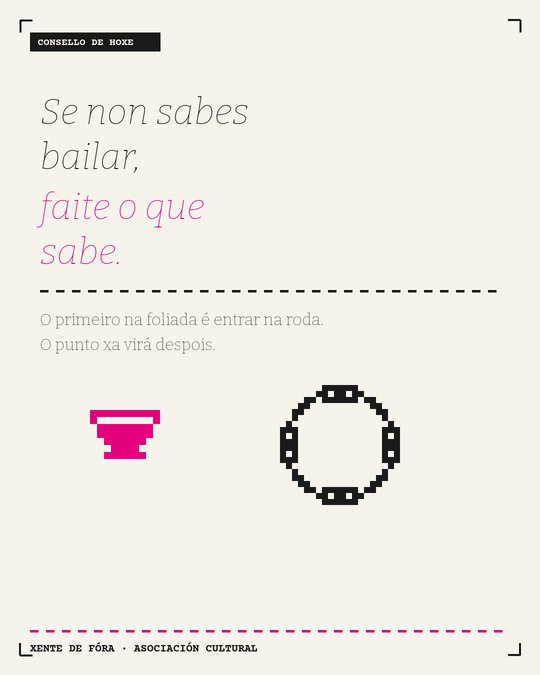
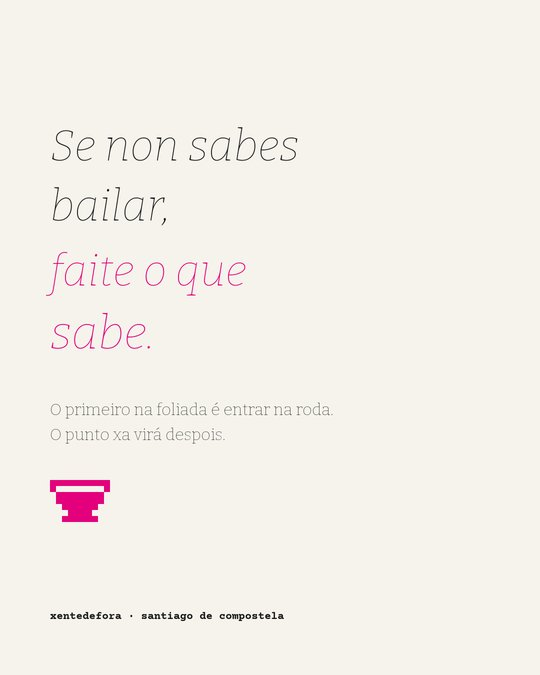
Feed limpo sen ruído: fotos 100% limpas, coplas con aire e ovo no post 15

diff --git a/manual/index.html b/manual/index.html
@@ -542,7 +542,7 @@ pre{font:14px/20px var(--mono);margin:24px 0;padding:16px;border:1px solid var(-
 <image x="0" y="0" width="72" height="56" preserveAspectRatio="xMidYMid slice" clip-path="url(#cp26)" href="../img/foto_melide_72x56_duotono_magenta.jpg"/>
 <path fill="#E4007C" fill-rule="evenodd" d="M 7 60 L 10 60 L 10 61 L 11 61 L 11 64 L 10 64 L 10 65 L 7 65 L 7 64 L 10 64 L 10 61 L 7 61 L 7 64 L 6 64 L 6 61 L 7 61 Z M 12 60 L 16 60 L 16 61 L 17 61 L 17 62 L 16 62 L 16 63 L 17 63 L 17 64 L 16 64 L 16 65 L 12 65 Z M 13 61 L 13 62 L 16 62 L 16 61 Z M 18 60 L 22 60 L 22 61 L 23 61 L 23 62 L 22 62 L 22 64 L 23 64 L 23 65 L 22 65 L 22 64 L 21 64 L 21 63 L 19 63 L 19 65 L 18 65 Z M 19 61 L 19 62 L 22 62 L 22 61 Z M 25 60 L 28 60 L 28 61 L 29 61 L 29 65 L 28 65 L 28 63 L 25 63 L 25 65 L 24 65 L 24 61 L 25 61 L 25 62 L 28 62 L 28 61 L 25 61 Z M 30 60 L 34 60 L 34 61 L 35 61 L 35 64 L 34 64 L 34 65 L 30 65 Z M 31 61 L 31 64 L 34 64 L 34 61 Z M 37 60 L 40 60 L 40 61 L 41 61 L 41 64 L 40 64 L 40 65 L 37 65 L 37 64 L 40 64 L 40 61 L 37 61 L 37 64 L 36 64 L 36 61 L 37 61 Z M 42 60 L 47 60 L 47 61 L 45 61 L 45 64 L 47 64 L 47 65 L 42 65 L 42 64 L 44 64 L 44 61 L 42 61 Z M 48 60 L 52 60 L 52 61 L 53 61 L 53 62 L 52 62 L 52 64 L 53 64 L 53 65 L 52 65 L 52 64 L 51 64 L 51 63 L 49 63 L 49 65 L 48 65 Z M 49 61 L 49 62 L 52 62 L 52 61 Z M 55 60 L 58 60 L 58 61 L 59 61 L 59 64 L 58 64 L 58 65 L 55 65 L 55 64 L 58 64 L 58 61 L 55 61 L 55 64 L 54 64 L 54 61 L 55 61 Z M 13 63 L 13 64 L 16 64 L 16 63 Z M 6 67 L 10 67 L 10 68 L 11 68 L 11 71 L 10 71 L 10 72 L 6 72 Z M 7 68 L 7 71 L 10 71 L 10 68 Z M 12 67 L 17 67 L 17 68 L 13 68 L 13 69 L 16 69 L 16 70 L 13 70 L 13 71 L 17 71 L 17 72 L 12 72 Z M 6 74 L 10 74 L 10 75 L 11 75 L 11 76 L 10 76 L 10 77 L 7 77 L 7 79 L 6 79 Z M 7 75 L 7 76 L 10 76 L 10 75 Z M 13 74 L 16 74 L 16 75 L 17 75 L 17 79 L 16 79 L 16 77 L 13 77 L 13 79 L 12 79 L 12 75 L 13 75 L 13 76 L 16 76 L 16 75 L 13 75 Z M 18 74 L 19 74 L 19 75 L 20 75 L 20 76 L 21 76 L 21 77 L 22 77 L 22 74 L 23 74 L 23 79 L 22 79 L 22 78 L 21 78 L 21 77 L 20 77 L 20 76 L 19 76 L 19 79 L 18 79 Z M 24 74 L 28 74 L 28 75 L 29 75 L 29 78 L 28 78 L 28 79 L 24 79 Z M 25 75 L 25 78 L 28 78 L 28 75 Z M 30 74 L 35 74 L 35 75 L 31 75 L 31 76 L 34 76 L 34 77 L 31 77 L 31 78 L 35 78 L 35 79 L 30 79 Z M 36 74 L 41 74 L 41 75 L 39 75 L 39 78 L 41 78 L 41 79 L 36 79 L 36 78 L 38 78 L 38 75 L 36 75 Z M 42 74 L 46 74 L 46 75 L 47 75 L 47 76 L 46 76 L 46 78 L 47 78 L 47 79 L 46 79 L 46 78 L 45 78 L 45 77 L 43 77 L 43 79 L 42 79 Z M 43 75 L 43 76 L 46 76 L 46 75 Z M 48 74 L 53 74 L 53 75 L 49 75 L 49 76 L 52 76 L 52 77 L 49 77 L 49 78 L 53 78 L 53 79 L 48 79 Z M 54 74 L 59 74 L 59 75 L 57 75 L 57 79 L 56 79 L 56 75 L 54 75 Z M 61 74 L 64 74 L 64 75 L 65 75 L 65 79 L 64 79 L 64 77 L 61 77 L 61 79 L 60 79 L 60 75 L 61 75 L 61 76 L 64 76 L 64 75 L 61 75 Z"/>
 <text x="6" y="85.5" font-size="2.4" fill="#1A1A1A" class="mono" text-anchor="start">SÁBADO 8 DE NOVEMBRO · 11:00 H · GRATUÍTO</text>
-</svg></div><figcaption><span class="num">Fig. 11.7</span>Post vertical 72 × 90 coa foto en duotono magenta: 56 filas de foto, bordo bordado e a banda co titular en tres liñas.</figcaption></figure></div><p>Para stories verticais de Instagram e Reels (1080 × 1920 px, 9:16) con recortes de píxel, a peza organízase en catro zonas: esquinas de grella perimetral (44 px de marxe), etiqueta superior en Courier Prime sobre caixa sólida, titular en Puntos (Ferreña), o personaxe ou elemento recortado a píxel centrado (de 800 a 1050 px de alto), e unha placa sólida inferior con data, hora, lugar e sinatura corporativa. O script <code>_recorte_pixel.py</code> automatiza a exportación deste modelo.</p><figure><div class="peza"><div class="fila ancha n3 n3"><figure><div class="peza"><div style="max-width:240px;margin:0 auto"><img src="../img/story_as_marias.gif" alt="Story 9:16 As Marías" class="mock" loading="lazy" decoding="async"></div></div><figcaption>Story en magenta · As Marías</figcaption></figure><figure><div class="peza"><div style="max-width:240px;margin:0 auto"><img src="../img/story_galo.gif" alt="Story 9:16 O Galo de Mos" class="mock" loading="lazy" decoding="async"></div></div><figcaption>Story en tinta · O Galo de Mos</figcaption></figure><figure><div class="peza"><div style="max-width:240px;margin:0 auto"><img src="../img/story_vaca.gif" alt="Story 9:16 Vaca Cachena" class="mock" loading="lazy" decoding="async"></div></div><figcaption>Story en papel · Vaca Cachena</figcaption></figure></div></div><figcaption><span class="num">Fig. 11.8</span>Stories 9:16 con recorte de píxel: catro zonas estruturadas (marcas de grella nas esquinas, etiqueta superior, titular en Puntos e placa de datos ao pé).</figcaption></figure><h3>Feed equilibrado de Instagram (3×N)</h3><p>Para evitar tanto a monotonía corporativa como o desorde caótico, o feed de Instagram (@xentedefora) organízase mediante a <strong>Tríade da Foliada</strong> nunha grella de 3 columnas con <strong>cadencia diagonal (+1)</strong>: cada fila combina exactamente unha <strong>Foto Real</strong> (33%, calidez e rúa), un <strong>Recorte de Píxel Pop</strong> (33%, punch e silueta 8-bit sobre magenta ou tinta) e unha <strong>Peza Tipográfica en Papel</strong> (33%, respiro visual, datas e coplas). Ao desprazar o comezo un posto en cada fila, xérase unha fervenza diagonal que equilibra as cores e garante que ningunha columna repita dous formatos idénticos seguidos.</p><figure><div class="peza"><div class="feed-ig"><div class="feed-ig-grid"><div class="feed-ig-item"><img src="../img/feed_01.jpg" alt="Post: Proximamente... (Ovo)" class="" loading="lazy" decoding="async"><span class="feed-ig-etiqueta mag">Proximamente... (Ovo)</span></div><div class="feed-ig-item"><img src="../img/feed_02.jpg" alt="Post: Menos Tinder" class="" loading="lazy" decoding="async"><span class="feed-ig-etiqueta pap">Menos Tinder</span></div><div class="feed-ig-item"><img src="../img/feed_03.jpg" alt="Post: Foliada na Alameda" class="" loading="lazy" decoding="async"><span class="feed-ig-etiqueta tin">Foliada na Alameda</span></div><div class="feed-ig-item"><img src="../img/feed_04.jpg" alt="Post: Foliada no Toural" class="" loading="lazy" decoding="async"><span class="feed-ig-etiqueta pap">Foliada no Toural</span></div><div class="feed-ig-item"><img src="../img/feed_05.jpg" alt="Post: O Ritmo das Mans" class="" loading="lazy" decoding="async"><span class="feed-ig-etiqueta tin">O Ritmo das Mans</span></div><div class="feed-ig-item"><img src="../img/feed_06.jpg" alt="Post: As Marías" class="" loading="lazy" decoding="async"><span class="feed-ig-etiqueta mag">As Marías</span></div><div class="feed-ig-item"><img src="../img/feed_07.jpg" alt="Post: Baile na Praza" class="" loading="lazy" decoding="async"><span class="feed-ig-etiqueta tin">Baile na Praza</span></div><div class="feed-ig-item"><img src="../img/feed_08.jpg" alt="Post: Vaca Cachena" class="" loading="lazy" decoding="async"><span class="feed-ig-etiqueta mag">Vaca Cachena</span></div><div class="feed-ig-item"><img src="../img/feed_09.jpg" alt="Post: Se Non Sabes Bailar..." class="" loading="lazy" decoding="async"><span class="feed-ig-etiqueta pap">Se Non Sabes Bailar...</span></div><div class="feed-ig-item"><img src="../img/feed_10.jpg" alt="Post: O Galo de Mos" class="" loading="lazy" decoding="async"><span class="feed-ig-etiqueta mag">O Galo de Mos</span></div><div class="feed-ig-item"><img src="../img/feed_11.jpg" alt="Post: Curso de Baile" class="" loading="lazy" decoding="async"><span class="feed-ig-etiqueta pap">Curso de Baile</span></div><div class="feed-ig-item"><img src="../img/feed_12.jpg" alt="Post: Cantos de Rúa" class="" loading="lazy" decoding="async"><span class="feed-ig-etiqueta tin">Cantos de Rúa</span></div><div class="feed-ig-item"><img src="../img/feed_13.jpg" alt="Post: Copla do Carro" class="" loading="lazy" decoding="async"><span class="feed-ig-etiqueta pap">Copla do Carro</span></div><div class="feed-ig-item"><img src="../img/feed_14.jpg" alt="Post: A Forza do Toque" class="" loading="lazy" decoding="async"><span class="feed-ig-etiqueta tin">A Forza do Toque</span></div><div class="feed-ig-item"><img src="../img/feed_15.jpg" alt="Post: A Galiña Baila" class="" loading="lazy" decoding="async"><span class="feed-ig-etiqueta mag">A Galiña Baila</span></div></div></div><div class="feed-cadencia-guia"><div><strong>📷 33% FOTO REAL</strong><br>Calidez, movemento e rúa</div><div><strong>⚡ 33% RECORTE POP</strong><br>Punch visual e troquelado 8-bit</div><div><strong>📄 33% PAPEL</strong><br>Respiro visual, coplas e datas</div></div><p style="text-align:center;margin-top:16px;font-family:var(--mono);font-size:14px"><a href="../feed.html" target="_blank">Abrir o simulador interactivo completo do Feed 3×5</a></p></div><figcaption><span class="num">Fig. 11.9</span>Grella 3×N para Instagram: cadencia diagonal (+1) coa Tríade da Foliada (33% Foto Real, 33% Recorte de Píxel Pop e 33% Tipografía en Papel). Ningunha columna repite dous formatos idénticos seguidos.</figcaption></figure><figure><div class="peza"><svg class="mock" style="max-width:36rem" viewBox="0 0 160 40" role="img" aria-label="Cabeceira de Google Forms 1600 por 400 para a inscrición do curso" xmlns="http://www.w3.org/2000/svg">
+</svg></div><figcaption><span class="num">Fig. 11.7</span>Post vertical 72 × 90 coa foto en duotono magenta: 56 filas de foto, bordo bordado e a banda co titular en tres liñas.</figcaption></figure></div><p>Para stories verticais de Instagram e Reels (1080 × 1920 px, 9:16) con recortes de píxel, a peza organízase en catro zonas: esquinas de grella perimetral (44 px de marxe), etiqueta superior en Courier Prime sobre caixa sólida, titular en Puntos (Ferreña), o personaxe ou elemento recortado a píxel centrado (de 800 a 1050 px de alto), e unha placa sólida inferior con data, hora, lugar e sinatura corporativa. O script <code>_recorte_pixel.py</code> automatiza a exportación deste modelo.</p><figure><div class="peza"><div class="fila ancha n3 n3"><figure><div class="peza"><div style="max-width:240px;margin:0 auto"><img src="../img/story_as_marias.gif" alt="Story 9:16 As Marías" class="mock" loading="lazy" decoding="async"></div></div><figcaption>Story en magenta · As Marías</figcaption></figure><figure><div class="peza"><div style="max-width:240px;margin:0 auto"><img src="../img/story_galo.gif" alt="Story 9:16 O Galo de Mos" class="mock" loading="lazy" decoding="async"></div></div><figcaption>Story en tinta · O Galo de Mos</figcaption></figure><figure><div class="peza"><div style="max-width:240px;margin:0 auto"><img src="../img/story_vaca.gif" alt="Story 9:16 Vaca Cachena" class="mock" loading="lazy" decoding="async"></div></div><figcaption>Story en papel · Vaca Cachena</figcaption></figure></div></div><figcaption><span class="num">Fig. 11.8</span>Stories 9:16 con recorte de píxel: catro zonas estruturadas (marcas de grella nas esquinas, etiqueta superior, titular en Puntos e placa de datos ao pé).</figcaption></figure><h3>Feed equilibrado de Instagram (3×N)</h3><p>Para evitar tanto a monotonía corporativa como o desorde caótico, o feed de Instagram (@xentedefora) organízase mediante a <strong>Tríade da Foliada</strong> nunha grella de 3 columnas con <strong>cadencia diagonal (+1)</strong>: cada fila combina exactamente unha <strong>Foto Real</strong> (33%, calidez e rúa), un <strong>Recorte de Píxel Pop</strong> (33%, punch e silueta 8-bit sobre magenta ou tinta) e unha <strong>Peza Tipográfica en Papel</strong> (33%, respiro visual, datas e coplas). Ao desprazar o comezo un posto en cada fila, xérase unha fervenza diagonal que equilibra as cores e garante que ningunha columna repita dous formatos idénticos seguidos.</p><figure><div class="peza"><div class="feed-ig"><div class="feed-ig-grid"><div class="feed-ig-item"><img src="../img/feed_01.jpg" alt="Post: Menos Tinder" class="" loading="lazy" decoding="async"><span class="feed-ig-etiqueta pap">Menos Tinder</span></div><div class="feed-ig-item"><img src="../img/feed_02.jpg" alt="Post: A Galiña Baila" class="" loading="lazy" decoding="async"><span class="feed-ig-etiqueta mag">A Galiña Baila</span></div><div class="feed-ig-item"><img src="../img/feed_03.jpg" alt="Post: Foliada na Alameda" class="" loading="lazy" decoding="async"><span class="feed-ig-etiqueta tin">Foliada na Alameda</span></div><div class="feed-ig-item"><img src="../img/feed_04.jpg" alt="Post: O Ritmo das Mans" class="" loading="lazy" decoding="async"><span class="feed-ig-etiqueta tin">O Ritmo das Mans</span></div><div class="feed-ig-item"><img src="../img/feed_05.jpg" alt="Post: Foliada no Toural" class="" loading="lazy" decoding="async"><span class="feed-ig-etiqueta pap">Foliada no Toural</span></div><div class="feed-ig-item"><img src="../img/feed_06.jpg" alt="Post: As Marías" class="" loading="lazy" decoding="async"><span class="feed-ig-etiqueta mag">As Marías</span></div><div class="feed-ig-item"><img src="../img/feed_07.jpg" alt="Post: Vaca Cachena" class="" loading="lazy" decoding="async"><span class="feed-ig-etiqueta mag">Vaca Cachena</span></div><div class="feed-ig-item"><img src="../img/feed_08.jpg" alt="Post: Baile na Praza" class="" loading="lazy" decoding="async"><span class="feed-ig-etiqueta tin">Baile na Praza</span></div><div class="feed-ig-item"><img src="../img/feed_09.jpg" alt="Post: Se Non Sabes Bailar..." class="" loading="lazy" decoding="async"><span class="feed-ig-etiqueta pap">Se Non Sabes Bailar...</span></div><div class="feed-ig-item"><img src="../img/feed_10.jpg" alt="Post: Clases de Baile" class="" loading="lazy" decoding="async"><span class="feed-ig-etiqueta pap">Clases de Baile</span></div><div class="feed-ig-item"><img src="../img/feed_11.jpg" alt="Post: O Galo de Mos" class="" loading="lazy" decoding="async"><span class="feed-ig-etiqueta mag">O Galo de Mos</span></div><div class="feed-ig-item"><img src="../img/feed_12.jpg" alt="Post: Cantos de Rúa" class="" loading="lazy" decoding="async"><span class="feed-ig-etiqueta tin">Cantos de Rúa</span></div><div class="feed-ig-item"><img src="../img/feed_13.jpg" alt="Post: A Forza do Toque" class="" loading="lazy" decoding="async"><span class="feed-ig-etiqueta tin">A Forza do Toque</span></div><div class="feed-ig-item"><img src="../img/feed_14.jpg" alt="Post: Copla do Carro" class="" loading="lazy" decoding="async"><span class="feed-ig-etiqueta pap">Copla do Carro</span></div><div class="feed-ig-item"><img src="../img/feed_15.jpg" alt="Post: Proximamente... (Ovo)" class="" loading="lazy" decoding="async"><span class="feed-ig-etiqueta mag">Proximamente... (Ovo)</span></div></div></div><div class="feed-cadencia-guia"><div><strong>📷 33% FOTO REAL</strong><br>Calidez, movemento e rúa</div><div><strong>⚡ 33% RECORTE POP</strong><br>Punch visual e troquelado 8-bit</div><div><strong>📄 33% PAPEL</strong><br>Respiro visual, coplas e datas</div></div><p style="text-align:center;margin-top:16px;font-family:var(--mono);font-size:14px"><a href="../feed.html" target="_blank">Abrir o simulador interactivo completo do Feed 3×5</a></p></div><figcaption><span class="num">Fig. 11.9</span>Grella 3×N para Instagram: cadencia diagonal (+1) coa Tríade da Foliada (33% Foto Real, 33% Recorte de Píxel Pop e 33% Tipografía en Papel). Ningunha columna repite dous formatos idénticos seguidos.</figcaption></figure><figure><div class="peza"><svg class="mock" style="max-width:36rem" viewBox="0 0 160 40" role="img" aria-label="Cabeceira de Google Forms 1600 por 400 para a inscrición do curso" xmlns="http://www.w3.org/2000/svg">
 <rect width="160" height="40" fill="#E4007C"/>
 <path fill="#F5F3EC" fill-rule="evenodd" d="M 14 10 L 16 10 L 16 11 L 17 11 L 17 10 L 18 10 L 18 11 L 19 11 L 19 13 L 18 13 L 18 15 L 19 15 L 19 18 L 20 18 L 20 19 L 24 19 L 24 20 L 25 20 L 25 21 L 26 21 L 26 20 L 25 20 L 25 19 L 24 19 L 24 18 L 25 18 L 25 17 L 26 17 L 26 16 L 28 16 L 28 17 L 27 17 L 27 18 L 28 18 L 28 19 L 27 19 L 27 20 L 28 20 L 28 21 L 27 21 L 27 23 L 26 23 L 26 25 L 25 25 L 25 26 L 23 26 L 23 27 L 22 27 L 22 29 L 23 29 L 23 30 L 20 30 L 20 29 L 21 29 L 21 27 L 17 27 L 17 26 L 15 26 L 15 25 L 14 25 L 14 23 L 13 23 L 13 21 L 15 21 L 15 20 L 16 20 L 16 21 L 17 21 L 17 23 L 18 23 L 18 24 L 19 24 L 19 25 L 23 25 L 23 24 L 24 24 L 24 23 L 25 23 L 25 21 L 23 21 L 23 22 L 24 22 L 24 23 L 23 23 L 23 24 L 19 24 L 19 23 L 18 23 L 18 21 L 17 21 L 17 20 L 18 20 L 18 19 L 19 19 L 19 18 L 18 18 L 18 19 L 17 19 L 17 20 L 16 20 L 16 19 L 15 19 L 15 20 L 13 20 L 13 19 L 14 19 L 14 18 L 15 18 L 15 17 L 16 17 L 16 16 L 14 16 L 14 18 L 13 18 L 13 16 L 14 16 L 14 15 L 12 15 L 12 14 L 14 14 L 14 13 L 18 13 L 18 12 L 14 12 L 14 13 L 13 13 L 13 11 L 14 11 Z M 90 10 L 92 10 L 92 11 L 90 11 Z M 40 12 L 45 12 L 45 13 L 43 13 L 43 16 L 45 16 L 45 17 L 40 17 L 40 16 L 42 16 L 42 13 L 40 13 Z M 46 12 L 47 12 L 47 13 L 48 13 L 48 14 L 49 14 L 49 15 L 50 15 L 50 12 L 51 12 L 51 17 L 50 17 L 50 16 L 49 16 L 49 15 L 48 15 L 48 14 L 47 14 L 47 17 L 46 17 Z M 53 12 L 57 12 L 57 13 L 53 13 L 53 14 L 56 14 L 56 15 L 57 15 L 57 16 L 56 16 L 56 17 L 52 17 L 52 16 L 56 16 L 56 15 L 53 15 L 53 14 L 52 14 L 52 13 L 53 13 Z M 59 12 L 63 12 L 63 13 L 59 13 L 59 16 L 63 16 L 63 17 L 59 17 L 59 16 L 58 16 L 58 13 L 59 13 Z M 64 12 L 68 12 L 68 13 L 69 13 L 69 14 L 68 14 L 68 16 L 69 16 L 69 17 L 68 17 L 68 16 L 67 16 L 67 15 L 65 15 L 65 17 L 64 17 Z M 65 13 L 65 14 L 68 14 L 68 13 Z M 70 12 L 75 12 L 75 13 L 73 13 L 73 16 L 75 16 L 75 17 L 70 17 L 70 16 L 72 16 L 72 13 L 70 13 Z M 77 12 L 81 12 L 81 13 L 77 13 L 77 16 L 81 16 L 81 17 L 77 17 L 77 16 L 76 16 L 76 13 L 77 13 Z M 82 12 L 87 12 L 87 13 L 85 13 L 85 16 L 87 16 L 87 17 L 82 17 L 82 16 L 84 16 L 84 13 L 82 13 Z M 89 12 L 92 12 L 92 13 L 93 13 L 93 16 L 92 16 L 92 17 L 89 17 L 89 16 L 92 16 L 92 13 L 89 13 L 89 16 L 88 16 L 88 13 L 89 13 Z M 94 12 L 95 12 L 95 13 L 96 13 L 96 14 L 97 14 L 97 15 L 98 15 L 98 12 L 99 12 L 99 17 L 98 17 L 98 16 L 97 16 L 97 15 L 96 15 L 96 14 L 95 14 L 95 17 L 94 17 Z M 16 14 L 15 14 L 15 15 L 16 15 Z M 27 18 L 26 18 L 26 19 L 27 19 Z M 21 22 L 21 23 L 23 23 L 23 22 Z M 18 28 L 19 28 L 19 30 L 17 30 L 17 29 L 18 29 Z"/>
 <text x="40" y="30.5" font-size="3" fill="#F5F3EC" class="mono" text-anchor="start">CURSO DE BAILE 2026-27 · UNHA TARDE Á SEMANA</text>

diff --git a/index.html b/index.html
@@ -416,7 +416,7 @@ pre{font:14px/20px var(--mono);margin:24px 0;padding:16px;border:1px solid var(-
 <image x="0" y="0" width="72" height="56" preserveAspectRatio="xMidYMid slice" clip-path="url(#cp41)" href="img/foto_melide_72x56_duotono_magenta.jpg"/>
 <path fill="#E4007C" fill-rule="evenodd" d="M 7 60 L 10 60 L 10 61 L 11 61 L 11 64 L 10 64 L 10 65 L 7 65 L 7 64 L 10 64 L 10 61 L 7 61 L 7 64 L 6 64 L 6 61 L 7 61 Z M 12 60 L 16 60 L 16 61 L 17 61 L 17 62 L 16 62 L 16 63 L 17 63 L 17 64 L 16 64 L 16 65 L 12 65 Z M 13 61 L 13 62 L 16 62 L 16 61 Z M 18 60 L 22 60 L 22 61 L 23 61 L 23 62 L 22 62 L 22 64 L 23 64 L 23 65 L 22 65 L 22 64 L 21 64 L 21 63 L 19 63 L 19 65 L 18 65 Z M 19 61 L 19 62 L 22 62 L 22 61 Z M 25 60 L 28 60 L 28 61 L 29 61 L 29 65 L 28 65 L 28 63 L 25 63 L 25 65 L 24 65 L 24 61 L 25 61 L 25 62 L 28 62 L 28 61 L 25 61 Z M 30 60 L 34 60 L 34 61 L 35 61 L 35 64 L 34 64 L 34 65 L 30 65 Z M 31 61 L 31 64 L 34 64 L 34 61 Z M 37 60 L 40 60 L 40 61 L 41 61 L 41 64 L 40 64 L 40 65 L 37 65 L 37 64 L 40 64 L 40 61 L 37 61 L 37 64 L 36 64 L 36 61 L 37 61 Z M 42 60 L 47 60 L 47 61 L 45 61 L 45 64 L 47 64 L 47 65 L 42 65 L 42 64 L 44 64 L 44 61 L 42 61 Z M 48 60 L 52 60 L 52 61 L 53 61 L 53 62 L 52 62 L 52 64 L 53 64 L 53 65 L 52 65 L 52 64 L 51 64 L 51 63 L 49 63 L 49 65 L 48 65 Z M 49 61 L 49 62 L 52 62 L 52 61 Z M 55 60 L 58 60 L 58 61 L 59 61 L 59 64 L 58 64 L 58 65 L 55 65 L 55 64 L 58 64 L 58 61 L 55 61 L 55 64 L 54 64 L 54 61 L 55 61 Z M 13 63 L 13 64 L 16 64 L 16 63 Z M 6 67 L 10 67 L 10 68 L 11 68 L 11 71 L 10 71 L 10 72 L 6 72 Z M 7 68 L 7 71 L 10 71 L 10 68 Z M 12 67 L 17 67 L 17 68 L 13 68 L 13 69 L 16 69 L 16 70 L 13 70 L 13 71 L 17 71 L 17 72 L 12 72 Z M 6 74 L 10 74 L 10 75 L 11 75 L 11 76 L 10 76 L 10 77 L 7 77 L 7 79 L 6 79 Z M 7 75 L 7 76 L 10 76 L 10 75 Z M 13 74 L 16 74 L 16 75 L 17 75 L 17 79 L 16 79 L 16 77 L 13 77 L 13 79 L 12 79 L 12 75 L 13 75 L 13 76 L 16 76 L 16 75 L 13 75 Z M 18 74 L 19 74 L 19 75 L 20 75 L 20 76 L 21 76 L 21 77 L 22 77 L 22 74 L 23 74 L 23 79 L 22 79 L 22 78 L 21 78 L 21 77 L 20 77 L 20 76 L 19 76 L 19 79 L 18 79 Z M 24 74 L 28 74 L 28 75 L 29 75 L 29 78 L 28 78 L 28 79 L 24 79 Z M 25 75 L 25 78 L 28 78 L 28 75 Z M 30 74 L 35 74 L 35 75 L 31 75 L 31 76 L 34 76 L 34 77 L 31 77 L 31 78 L 35 78 L 35 79 L 30 79 Z M 36 74 L 41 74 L 41 75 L 39 75 L 39 78 L 41 78 L 41 79 L 36 79 L 36 78 L 38 78 L 38 75 L 36 75 Z M 42 74 L 46 74 L 46 75 L 47 75 L 47 76 L 46 76 L 46 78 L 47 78 L 47 79 L 46 79 L 46 78 L 45 78 L 45 77 L 43 77 L 43 79 L 42 79 Z M 43 75 L 43 76 L 46 76 L 46 75 Z M 48 74 L 53 74 L 53 75 L 49 75 L 49 76 L 52 76 L 52 77 L 49 77 L 49 78 L 53 78 L 53 79 L 48 79 Z M 54 74 L 59 74 L 59 75 L 57 75 L 57 79 L 56 79 L 56 75 L 54 75 Z M 61 74 L 64 74 L 64 75 L 65 75 L 65 79 L 64 79 L 64 77 L 61 77 L 61 79 L 60 79 L 60 75 L 61 75 L 61 76 L 64 76 L 64 75 L 61 75 Z"/>
 <text x="6" y="85.5" font-size="2.4" fill="#1A1A1A" class="mono" text-anchor="start">SÁBADO 8 DE NOVEMBRO · 11:00 H · GRATUÍTO</text>
-</svg></div><figcaption>Post vertical coa foto en duotono magenta.</figcaption></figure></div><figure><div class="peza"><div class="fila ancha n3 n3"><figure><div class="peza"><div style="max-width:240px;margin:0 auto"><img src="img/story_as_marias.gif" alt="Story 9:16 As Marías" class="mock" loading="lazy" decoding="async"></div></div><figcaption>Story en magenta · As Marías</figcaption></figure><figure><div class="peza"><div style="max-width:240px;margin:0 auto"><img src="img/story_galo.gif" alt="Story 9:16 O Galo de Mos" class="mock" loading="lazy" decoding="async"></div></div><figcaption>Story en tinta · O Galo de Mos</figcaption></figure><figure><div class="peza"><div style="max-width:240px;margin:0 auto"><img src="img/story_vaca.gif" alt="Story 9:16 Vaca Cachena" class="mock" loading="lazy" decoding="async"></div></div><figcaption>Story en papel · Vaca Cachena</figcaption></figure></div></div><figcaption>Stories 9:16 con recorte de píxel e placa de datos ao pé.</figcaption></figure><h3>Feed equilibrado 3×N</h3><p>A <strong>Tríade da Foliada</strong> nunha grella de 3 columnas con <strong>cadencia diagonal (+1)</strong>: alternando foto documental real (33%), recorte pop en píxel (33%) e tipografía en papel (33%).</p><figure><div class="peza"><div class="feed-ig"><div class="feed-ig-grid"><div class="feed-ig-item"><img src="img/feed_01.jpg" alt="Post: Proximamente... (Ovo)" class="" loading="lazy" decoding="async"><span class="feed-ig-etiqueta mag">Proximamente... (Ovo)</span></div><div class="feed-ig-item"><img src="img/feed_02.jpg" alt="Post: Menos Tinder" class="" loading="lazy" decoding="async"><span class="feed-ig-etiqueta pap">Menos Tinder</span></div><div class="feed-ig-item"><img src="img/feed_03.jpg" alt="Post: Foliada na Alameda" class="" loading="lazy" decoding="async"><span class="feed-ig-etiqueta tin">Foliada na Alameda</span></div><div class="feed-ig-item"><img src="img/feed_04.jpg" alt="Post: Foliada no Toural" class="" loading="lazy" decoding="async"><span class="feed-ig-etiqueta pap">Foliada no Toural</span></div><div class="feed-ig-item"><img src="img/feed_05.jpg" alt="Post: O Ritmo das Mans" class="" loading="lazy" decoding="async"><span class="feed-ig-etiqueta tin">O Ritmo das Mans</span></div><div class="feed-ig-item"><img src="img/feed_06.jpg" alt="Post: As Marías" class="" loading="lazy" decoding="async"><span class="feed-ig-etiqueta mag">As Marías</span></div><div class="feed-ig-item"><img src="img/feed_07.jpg" alt="Post: Baile na Praza" class="" loading="lazy" decoding="async"><span class="feed-ig-etiqueta tin">Baile na Praza</span></div><div class="feed-ig-item"><img src="img/feed_08.jpg" alt="Post: Vaca Cachena" class="" loading="lazy" decoding="async"><span class="feed-ig-etiqueta mag">Vaca Cachena</span></div><div class="feed-ig-item"><img src="img/feed_09.jpg" alt="Post: Se Non Sabes Bailar..." class="" loading="lazy" decoding="async"><span class="feed-ig-etiqueta pap">Se Non Sabes Bailar...</span></div><div class="feed-ig-item"><img src="img/feed_10.jpg" alt="Post: O Galo de Mos" class="" loading="lazy" decoding="async"><span class="feed-ig-etiqueta mag">O Galo de Mos</span></div><div class="feed-ig-item"><img src="img/feed_11.jpg" alt="Post: Curso de Baile" class="" loading="lazy" decoding="async"><span class="feed-ig-etiqueta pap">Curso de Baile</span></div><div class="feed-ig-item"><img src="img/feed_12.jpg" alt="Post: Cantos de Rúa" class="" loading="lazy" decoding="async"><span class="feed-ig-etiqueta tin">Cantos de Rúa</span></div><div class="feed-ig-item"><img src="img/feed_13.jpg" alt="Post: Copla do Carro" class="" loading="lazy" decoding="async"><span class="feed-ig-etiqueta pap">Copla do Carro</span></div><div class="feed-ig-item"><img src="img/feed_14.jpg" alt="Post: A Forza do Toque" class="" loading="lazy" decoding="async"><span class="feed-ig-etiqueta tin">A Forza do Toque</span></div><div class="feed-ig-item"><img src="img/feed_15.jpg" alt="Post: A Galiña Baila" class="" loading="lazy" decoding="async"><span class="feed-ig-etiqueta mag">A Galiña Baila</span></div></div></div><div class="feed-cadencia-guia"><div><strong>📷 33% FOTO REAL</strong><br>Calidez, movemento e rúa</div><div><strong>⚡ 33% RECORTE POP</strong><br>Punch visual e troquelado 8-bit</div><div><strong>📄 33% PAPEL</strong><br>Respiro visual, coplas e datas</div></div><p style="text-align:center;margin-top:16px;font-family:var(--mono);font-size:14px"><a href="feed.html" target="_blank">Abrir o simulador interactivo completo do Feed 3×5</a></p></div><figcaption>O feed de Instagram a 3 columnas: cadencia diagonal que equilibra calidez, punch pop e aire de lectura.</figcaption></figure><figure><div class="peza"><div class="fila ancha n2"><figure><div class="peza"><svg class="mock" viewBox="0 0 86 54" role="img" aria-label="Carné, anverso: o bloque magenta co lock-up en papel" xmlns="http://www.w3.org/2000/svg">
+</svg></div><figcaption>Post vertical coa foto en duotono magenta.</figcaption></figure></div><figure><div class="peza"><div class="fila ancha n3 n3"><figure><div class="peza"><div style="max-width:240px;margin:0 auto"><img src="img/story_as_marias.gif" alt="Story 9:16 As Marías" class="mock" loading="lazy" decoding="async"></div></div><figcaption>Story en magenta · As Marías</figcaption></figure><figure><div class="peza"><div style="max-width:240px;margin:0 auto"><img src="img/story_galo.gif" alt="Story 9:16 O Galo de Mos" class="mock" loading="lazy" decoding="async"></div></div><figcaption>Story en tinta · O Galo de Mos</figcaption></figure><figure><div class="peza"><div style="max-width:240px;margin:0 auto"><img src="img/story_vaca.gif" alt="Story 9:16 Vaca Cachena" class="mock" loading="lazy" decoding="async"></div></div><figcaption>Story en papel · Vaca Cachena</figcaption></figure></div></div><figcaption>Stories 9:16 con recorte de píxel e placa de datos ao pé.</figcaption></figure><h3>Feed equilibrado 3×N</h3><p>A <strong>Tríade da Foliada</strong> nunha grella de 3 columnas con <strong>cadencia diagonal (+1)</strong>: alternando foto documental real (33%), recorte pop en píxel (33%) e tipografía en papel (33%).</p><figure><div class="peza"><div class="feed-ig"><div class="feed-ig-grid"><div class="feed-ig-item"><img src="img/feed_01.jpg" alt="Post: Menos Tinder" class="" loading="lazy" decoding="async"><span class="feed-ig-etiqueta pap">Menos Tinder</span></div><div class="feed-ig-item"><img src="img/feed_02.jpg" alt="Post: A Galiña Baila" class="" loading="lazy" decoding="async"><span class="feed-ig-etiqueta mag">A Galiña Baila</span></div><div class="feed-ig-item"><img src="img/feed_03.jpg" alt="Post: Foliada na Alameda" class="" loading="lazy" decoding="async"><span class="feed-ig-etiqueta tin">Foliada na Alameda</span></div><div class="feed-ig-item"><img src="img/feed_04.jpg" alt="Post: O Ritmo das Mans" class="" loading="lazy" decoding="async"><span class="feed-ig-etiqueta tin">O Ritmo das Mans</span></div><div class="feed-ig-item"><img src="img/feed_05.jpg" alt="Post: Foliada no Toural" class="" loading="lazy" decoding="async"><span class="feed-ig-etiqueta pap">Foliada no Toural</span></div><div class="feed-ig-item"><img src="img/feed_06.jpg" alt="Post: As Marías" class="" loading="lazy" decoding="async"><span class="feed-ig-etiqueta mag">As Marías</span></div><div class="feed-ig-item"><img src="img/feed_07.jpg" alt="Post: Vaca Cachena" class="" loading="lazy" decoding="async"><span class="feed-ig-etiqueta mag">Vaca Cachena</span></div><div class="feed-ig-item"><img src="img/feed_08.jpg" alt="Post: Baile na Praza" class="" loading="lazy" decoding="async"><span class="feed-ig-etiqueta tin">Baile na Praza</span></div><div class="feed-ig-item"><img src="img/feed_09.jpg" alt="Post: Se Non Sabes Bailar..." class="" loading="lazy" decoding="async"><span class="feed-ig-etiqueta pap">Se Non Sabes Bailar...</span></div><div class="feed-ig-item"><img src="img/feed_10.jpg" alt="Post: Clases de Baile" class="" loading="lazy" decoding="async"><span class="feed-ig-etiqueta pap">Clases de Baile</span></div><div class="feed-ig-item"><img src="img/feed_11.jpg" alt="Post: O Galo de Mos" class="" loading="lazy" decoding="async"><span class="feed-ig-etiqueta mag">O Galo de Mos</span></div><div class="feed-ig-item"><img src="img/feed_12.jpg" alt="Post: Cantos de Rúa" class="" loading="lazy" decoding="async"><span class="feed-ig-etiqueta tin">Cantos de Rúa</span></div><div class="feed-ig-item"><img src="img/feed_13.jpg" alt="Post: A Forza do Toque" class="" loading="lazy" decoding="async"><span class="feed-ig-etiqueta tin">A Forza do Toque</span></div><div class="feed-ig-item"><img src="img/feed_14.jpg" alt="Post: Copla do Carro" class="" loading="lazy" decoding="async"><span class="feed-ig-etiqueta pap">Copla do Carro</span></div><div class="feed-ig-item"><img src="img/feed_15.jpg" alt="Post: Proximamente... (Ovo)" class="" loading="lazy" decoding="async"><span class="feed-ig-etiqueta mag">Proximamente... (Ovo)</span></div></div></div><div class="feed-cadencia-guia"><div><strong>📷 33% FOTO REAL</strong><br>Calidez, movemento e rúa</div><div><strong>⚡ 33% RECORTE POP</strong><br>Punch visual e troquelado 8-bit</div><div><strong>📄 33% PAPEL</strong><br>Respiro visual, coplas e datas</div></div><p style="text-align:center;margin-top:16px;font-family:var(--mono);font-size:14px"><a href="feed.html" target="_blank">Abrir o simulador interactivo completo do Feed 3×5</a></p></div><figcaption>O feed de Instagram a 3 columnas: cadencia diagonal que equilibra calidez, punch pop e aire de lectura.</figcaption></figure><figure><div class="peza"><div class="fila ancha n2"><figure><div class="peza"><svg class="mock" viewBox="0 0 86 54" role="img" aria-label="Carné, anverso: o bloque magenta co lock-up en papel" xmlns="http://www.w3.org/2000/svg">
 <rect width="86" height="54" fill="#E4007C"/>
 <path fill="#F5F3EC" fill-rule="evenodd" d="M 16 17 L 18 17 L 18 18 L 19 18 L 19 17 L 20 17 L 20 18 L 21 18 L 21 20 L 20 20 L 20 22 L 21 22 L 21 25 L 22 25 L 22 26 L 26 26 L 26 27 L 27 27 L 27 28 L 28 28 L 28 27 L 27 27 L 27 26 L 26 26 L 26 25 L 27 25 L 27 24 L 28 24 L 28 23 L 30 23 L 30 24 L 29 24 L 29 25 L 30 25 L 30 26 L 29 26 L 29 27 L 30 27 L 30 28 L 29 28 L 29 30 L 28 30 L 28 32 L 27 32 L 27 33 L 25 33 L 25 34 L 24 34 L 24 36 L 25 36 L 25 37 L 22 37 L 22 36 L 23 36 L 23 34 L 19 34 L 19 33 L 17 33 L 17 32 L 16 32 L 16 30 L 15 30 L 15 28 L 17 28 L 17 27 L 18 27 L 18 28 L 19 28 L 19 30 L 20 30 L 20 31 L 21 31 L 21 32 L 25 32 L 25 31 L 26 31 L 26 30 L 27 30 L 27 28 L 25 28 L 25 29 L 26 29 L 26 30 L 25 30 L 25 31 L 21 31 L 21 30 L 20 30 L 20 28 L 19 28 L 19 27 L 20 27 L 20 26 L 21 26 L 21 25 L 20 25 L 20 26 L 19 26 L 19 27 L 18 27 L 18 26 L 17 26 L 17 27 L 15 27 L 15 26 L 16 26 L 16 25 L 17 25 L 17 24 L 18 24 L 18 23 L 16 23 L 16 25 L 15 25 L 15 23 L 16 23 L 16 22 L 14 22 L 14 21 L 16 21 L 16 20 L 20 20 L 20 19 L 16 19 L 16 20 L 15 20 L 15 18 L 16 18 Z M 18 21 L 17 21 L 17 22 L 18 22 Z M 33 20 L 34 20 L 34 21 L 35 21 L 35 22 L 36 22 L 36 23 L 37 23 L 37 24 L 38 24 L 38 25 L 37 25 L 37 24 L 36 24 L 36 23 L 35 23 L 35 24 L 34 24 L 34 25 L 33 25 L 33 24 L 34 24 L 34 23 L 35 23 L 35 22 L 34 22 L 34 21 L 33 21 Z M 37 20 L 38 20 L 38 21 L 37 21 L 37 22 L 36 22 L 36 21 L 37 21 Z M 39 20 L 44 20 L 44 21 L 40 21 L 40 22 L 43 22 L 43 23 L 40 23 L 40 24 L 44 24 L 44 25 L 39 25 Z M 45 20 L 46 20 L 46 21 L 47 21 L 47 22 L 48 22 L 48 23 L 49 23 L 49 20 L 50 20 L 50 25 L 49 25 L 49 24 L 48 24 L 48 23 L 47 23 L 47 22 L 46 22 L 46 25 L 45 25 Z M 51 20 L 56 20 L 56 21 L 54 21 L 54 25 L 53 25 L 53 21 L 51 21 Z M 57 20 L 62 20 L 62 21 L 58 21 L 58 22 L 61 22 L 61 23 L 58 23 L 58 24 L 62 24 L 62 25 L 57 25 Z M 29 25 L 28 25 L 28 26 L 29 26 Z M 56 27 L 58 27 L 58 28 L 56 28 Z M 23 29 L 23 30 L 25 30 L 25 29 Z M 33 29 L 37 29 L 37 30 L 38 30 L 38 33 L 37 33 L 37 34 L 33 34 Z M 34 30 L 34 33 L 37 33 L 37 30 Z M 39 29 L 44 29 L 44 30 L 40 30 L 40 31 L 43 31 L 43 32 L 40 32 L 40 33 L 44 33 L 44 34 L 39 34 Z M 48 29 L 53 29 L 53 30 L 49 30 L 49 31 L 52 31 L 52 32 L 49 32 L 49 34 L 48 34 Z M 55 29 L 58 29 L 58 30 L 59 30 L 59 33 L 58 33 L 58 34 L 55 34 L 55 33 L 58 33 L 58 30 L 55 30 L 55 33 L 54 33 L 54 30 L 55 30 Z M 60 29 L 64 29 L 64 30 L 65 30 L 65 31 L 64 31 L 64 33 L 65 33 L 65 34 L 64 34 L 64 33 L 63 33 L 63 32 L 61 32 L 61 34 L 60 34 Z M 61 30 L 61 31 L 64 31 L 64 30 Z M 67 29 L 70 29 L 70 30 L 71 30 L 71 34 L 70 34 L 70 32 L 67 32 L 67 34 L 66 34 L 66 30 L 67 30 L 67 31 L 70 31 L 70 30 L 67 30 Z M 20 35 L 21 35 L 21 37 L 19 37 L 19 36 L 20 36 Z"/>
 </svg></div><figcaption>anverso · 86 × 54 mm · o bloque</figcaption></figure><figure><div class="peza"><svg class="mock" viewBox="0 0 86 54" role="img" aria-label="Carné, reverso: a pandeireta en magenta e os datos ao lado" xmlns="http://www.w3.org/2000/svg">

diff --git a/feed.html b/feed.html
@@ -598,21 +598,21 @@ h1 {
 
 <script>
 const posts = [
-    {"id": "01", "type": "recorte", "type_label": "Recorte Pop", "title": "Proximamente... (Ovo)", "sub": "Puxemos un ovo · Compostela", "file": "img/feed_01.jpg", "desc": "Post inaugural con gran ovo de píxel chocando sobre fondo Tinta. O inicio oficial do perfil en formato vertical 4:5.", "copy": "Proximamente... Algo está a chocar en Compostela! Puxemos un ovo: moi pronto música, baile e foliadas populares.\n\n#xentedefora #compostela #culturagalega #proximamente"},
-    {"id": "02", "type": "tipo", "type_label": "Tipografía en Papel", "title": "Menos Tinder", "sub": "Máis bailar agarrado", "file": "img/feed_02.jpg", "desc": "Mamarrachada con retranca en Bitter cursiva bold sobre fondo Papel (#F5F3EC) con dúas bailadoras enfrontadas.", "copy": "Menos Tinder e máis bailar agarrado! Pasodobre, valse e mazurca: o contacto humano de toda a vida. Vente á foliada e déixate de pantallas."},
-    {"id": "03", "type": "foto", "type_label": "Foto Real", "title": "Foliada na Alameda", "sub": "Música e rúa · Compostela", "file": "img/feed_03.jpg", "desc": "Fotografía documental real en formato vertical 4:5 con dither bayer cara á banda de tinta inferior.", "copy": "Foliada espontánea na Alameda de Santiago. Cando a música sae á rúa non hai escenarios nin protocolos: tocar, bailar e compartir."},
-    {"id": "04", "type": "tipo", "type_label": "Tipografía en Papel", "title": "Foliada no Toural", "sub": "Venres 24 de outubro · Convocatoria", "file": "img/feed_04.jpg", "desc": "Convocatoria con iconas de píxel (calendario, reloxo, lugar) e a galiña aturuxando sobre Papel.", "copy": "Foliada aberta no Toural. Venres 24 de outubro ás 21:00 h. Trae o teu instrumento e ganas de bailar. Entrada libre!"},
-    {"id": "05", "type": "foto", "type_label": "Foto Real", "title": "O Ritmo das Mans", "sub": "Pandeireta tradicional · Arteixo", "file": "img/feed_05.jpg", "desc": "Primeiro plano documental de pandeireteiras con transición dither sobre banda de tinta.", "copy": "Corcheas, semicorcheas e o pulso vivo das ferreñas. O ritmo tradicional báilase e séntese compás a compás."},
-    {"id": "06", "type": "recorte", "type_label": "Recorte Pop", "title": "As Dúas en Punto", "sub": "Coralia e Maruxa · Memoria", "file": "img/feed_06.jpg", "desc": "Recorte pop con máscara de píxel ríxida (8-bit) sobre masa sólida Magenta (#E4007C) e dobre trazo arcade retro.", "copy": "Ás dúas en punto polo Toural. Coralia e Maruxa: memoria viva, cores e dignidade popular compostelá."},
-    {"id": "07", "type": "foto", "type_label": "Foto Real", "title": "Baile na Praza", "sub": "Melide · Rodas e puntos", "file": "img/feed_07.jpg", "desc": "Baile solto en corro na foliada de Melide con banda de tinta inferior.", "copy": "A muiñeira báilase en roda, mirando aos ollos e compartindo o ritmo."},
-    {"id": "08", "type": "recorte", "type_label": "Recorte Pop", "title": "Brava e do Monte", "sub": "Raza Cachena · Patrimonio labrego", "file": "img/feed_08.jpg", "desc": "Vaca Cachena troquelada en píxel 16 px sobre fondo sólido Tinta (#1A1A1A) con insignia Magenta.", "copy": "Raza Cachena: pequena, brava e con cornos de lira que miran ao ceo. Patrimonio xenético e labrego da nosa terra."},
-    {"id": "09", "type": "tipo", "type_label": "Tipografía en Papel", "title": "Se Non Sabes Bailar...", "sub": "Consello e retranca para a foliada", "file": "img/feed_09.jpg", "desc": "Retranca popular galega en tipografía bold con cunca e pandeireta en píxel sobre fondo Papel.", "copy": "Se non sabes bailar, faite o que sabe! O primeiro na foliada é entrar na roda; o punto xa virá despois."},
-    {"id": "10", "type": "recorte", "type_label": "Recorte Pop", "title": "Aturuxo!", "sub": "O Galo de Mos · Voz da terra", "file": "img/feed_10.jpg", "desc": "Galo de Mos troquelado en píxel sobre fondo Magenta puro (#E4007C).", "copy": "Aturuxo! Que cante quen teña garganta. O galo de Mos: a voz brava e antiga da nosa terra."},
-    {"id": "11", "type": "tipo", "type_label": "Tipografía en Papel", "title": "Curso de Baile", "sub": "San Lourenzo · 2026-2027", "file": "img/feed_11.jpg", "desc": "Información do curso regular de baile tradicional en San Lourenzo sobre fondo Papel.", "copy": "Clases de baile tradicional 2026-2027. Xoves de 20:30 a 22:00 h no Local de San Lourenzo. Prazas limitadas."},
-    {"id": "12", "type": "foto", "type_label": "Foto Real", "title": "Cantos de Rúa", "sub": "Día das Letras · Compostela", "file": "img/feed_12.jpg", "desc": "Cantos tradicionais na rúa sen micro nin escenario.", "copy": "Cantar na rúa sen amplificación: a voz compartida como patrimonio vivo de base."},
-    {"id": "13", "type": "tipo", "type_label": "Tipografía en Papel", "title": "Copla do Carro", "sub": "Cancioneiro tradicional", "file": "img/feed_13.jpg", "desc": "Composición tipográfica rotunda sobre fondo Papel (#F5F3EC). Só a copla tradicional en Bitter Bold Italic.", "copy": "«Se queres que o carro cante, móllao no río; despois de ben molladiño cántache un asubío.»\n\nDo cancioneiro popular galego."},
-    {"id": "14", "type": "foto", "type_label": "Foto Real", "title": "A Forza do Toque", "sub": "Cantares e pandeireta na rúa", "file": "img/feed_14.jpg", "desc": "Pandeireteiras tocando en corro na rúa con banda de tinta inferior.", "copy": "Unha soa voz cando as ferreñas baten xuntas na foliada. A forza da música popular comunitaria."},
-    {"id": "15", "type": "recorte", "type_label": "Recorte Pop", "title": "A Galiña Baila", "sub": "Sprite arcade tradicional · 8-bit", "file": "img/feed_15.jpg", "desc": "A galiña da asociación en tres cadros de baile consecutivos en píxel puro sobre fondo Tinta.", "copy": "A galiña de Xente de Fóra baila a 180 ms por cadro. A disciplina do píxel unida ao baile tradicional."}
+    {"id": "01", "type": "tipo", "type_label": "Tipografía en Papel", "title": "Menos Tinder", "sub": "Máis bailar agarrado", "file": "img/feed_01.jpg", "desc": "Mamarrachada con retranca en Bitter cursiva bold sobre fondo Papel (#F5F3EC) con dúas bailadoras enfrontadas.", "copy": "Menos Tinder e máis bailar agarrado! Pasodobre, valse e mazurca: o contacto humano de toda a vida. Vente á foliada e déixate de pantallas."},
+    {"id": "02", "type": "recorte", "type_label": "Recorte Pop", "title": "A Galiña Baila", "sub": "Sprite arcade · 8-bit", "file": "img/feed_02.jpg", "desc": "A galiña en tres cadros de baile consecutivos en píxel puro sobre fondo Magenta.", "copy": "A galiña de Xente de Fóra baila a 180 ms por cadro. A disciplina do píxel unida ao baile tradicional."},
+    {"id": "03", "type": "foto", "type_label": "Foto Real", "title": "Foliada na Alameda", "sub": "Música e rúa · Compostela", "file": "img/feed_03.jpg", "desc": "Fotografía documental 100% limpa, sen subtítulos nin textos enriba.", "copy": "Foliada espontánea na Alameda de Santiago. Cando a música sae á rúa non hai escenarios nin protocolos: tocar, bailar e compartir."},
+    {"id": "04", "type": "foto", "type_label": "Foto Real", "title": "O Ritmo das Mans", "sub": "Pandeireta tradicional · Arteixo", "file": "img/feed_04.jpg", "desc": "Primeiro plano documental de pandeireteiras, fotografía 100% limpa.", "copy": "Corcheas, semicorcheas e o pulso vivo das ferreñas. O ritmo tradicional báilase e séntese compás a compás."},
+    {"id": "05", "type": "tipo", "type_label": "Tipografía en Papel", "title": "Foliada no Toural", "sub": "Venres 24 de outubro · Convocatoria", "file": "img/feed_05.jpg", "desc": "Convocatoria con tipografía clara e a galiña aturuxando sobre Papel.", "copy": "Foliada aberta no Toural. Venres 24 de outubro ás 21:00 h. Trae o teu instrumento e ganas de bailar. Entrada libre!"},
+    {"id": "06", "type": "recorte", "type_label": "Recorte Pop", "title": "As Dúas en Punto", "sub": "Coralia e Maruxa · Memoria", "file": "img/feed_06.jpg", "desc": "Recorte pop con dobre trazo sobre fondo sólido Magenta (#E4007C).", "copy": "Ás dúas en punto polo Toural. Coralia e Maruxa: memoria viva, cores e dignidade popular compostelá."},
+    {"id": "07", "type": "recorte", "type_label": "Recorte Pop", "title": "Brava e do Monte", "sub": "Raza Cachena · Patrimonio labrego", "file": "img/feed_07.jpg", "desc": "Vaca Cachena troquelada sobre fondo sólido Tinta (#1A1A1A).", "copy": "Raza Cachena: pequena, brava e con cornos de lira que miran ao ceo. Patrimonio xenético e labrego da nosa terra."},
+    {"id": "08", "type": "foto", "type_label": "Foto Real", "title": "Baile na Praza", "sub": "Melide · Rodas e puntos", "file": "img/feed_08.jpg", "desc": "Baile solto en corro na foliada de Melide. Fotografía 100% limpa.", "copy": "A muiñeira báilase en roda, mirando aos ollos e compartindo o ritmo."},
+    {"id": "09", "type": "tipo", "type_label": "Tipografía en Papel", "title": "Se Non Sabes Bailar...", "sub": "Consello e retranca para a foliada", "file": "img/feed_09.jpg", "desc": "Retranca popular galega con moito aire e cunca en píxel sobre fondo Papel.", "copy": "Se non sabes bailar, faite o que sabe! O primeiro na foliada é entrar na roda; o punto xa virá despois."},
+    {"id": "10", "type": "tipo", "type_label": "Tipografía en Papel", "title": "Curso de Baile", "sub": "San Lourenzo · 2026-2027", "file": "img/feed_10.jpg", "desc": "Información do curso regular de baile tradicional en San Lourenzo sobre fondo Papel.", "copy": "Clases de baile tradicional 2026-2027. Xoves de 20:30 a 22:00 h no Local de San Lourenzo. Prazas limitadas."},
+    {"id": "11", "type": "recorte", "type_label": "Recorte Pop", "title": "Aturuxo!", "sub": "O Galo de Mos · Voz da terra", "file": "img/feed_11.jpg", "desc": "Galo de Mos troquelado sobre fondo sólido Magenta puro (#E4007C).", "copy": "Aturuxo! Que cante quen teña garganta. O galo de Mos: a voz brava e antiga da nosa terra."},
+    {"id": "12", "type": "foto", "type_label": "Foto Real", "title": "Cantos de Rúa", "sub": "Día das Letras · Compostela", "file": "img/feed_12.jpg", "desc": "Cantos tradicionais na rúa sen micro nin escenario. Fotografía 100% limpa.", "copy": "Cantar na rúa sen amplificación: a voz compartida como patrimonio vivo de base."},
+    {"id": "13", "type": "foto", "type_label": "Foto Real", "title": "A Forza do Toque", "sub": "Cantares e pandeireta na rúa", "file": "img/feed_13.jpg", "desc": "Pandeireteiras tocando en corro na rúa. Fotografía 100% limpa.", "copy": "Unha soa voz cando as ferreñas baten xuntas na foliada. A forza da música popular comunitaria."},
+    {"id": "14", "type": "tipo", "type_label": "Tipografía en Papel", "title": "Copla do Carro", "sub": "Cancioneiro tradicional", "file": "img/feed_14.jpg", "desc": "Só a copla tradicional con moito aire e presenza tipográfica en Bitter Bold Italic.", "copy": "«Se queres que o carro cante, móllao no río; despois de ben molladiño cántache un asubío.»\n\nDo cancioneiro popular galego."},
+    {"id": "15", "type": "recorte", "type_label": "Recorte Pop / Teaser", "title": "Proximamente... (Ovo)", "sub": "Post inaugural · Nacemento da conta", "file": "img/feed_15.jpg", "desc": "O post inicial co que naceu o perfil: silueta exacta dun ovo en cor Papel sobre fondo Tinta.", "copy": "Proximamente... Puxemos un ovo: algo está a chocar en Compostela!\n\n#xentedefora #compostela #culturagalega #proximamente"}
 ];
 
 function renderGrid() {
